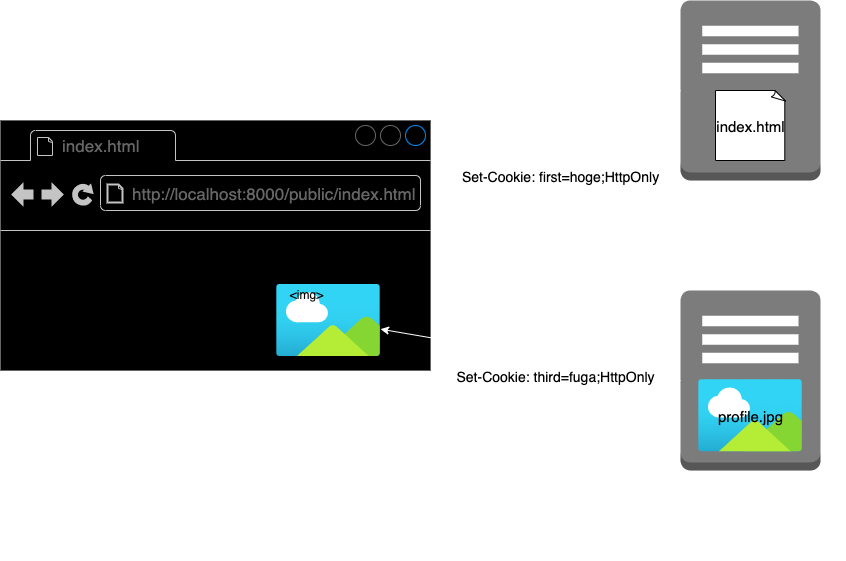
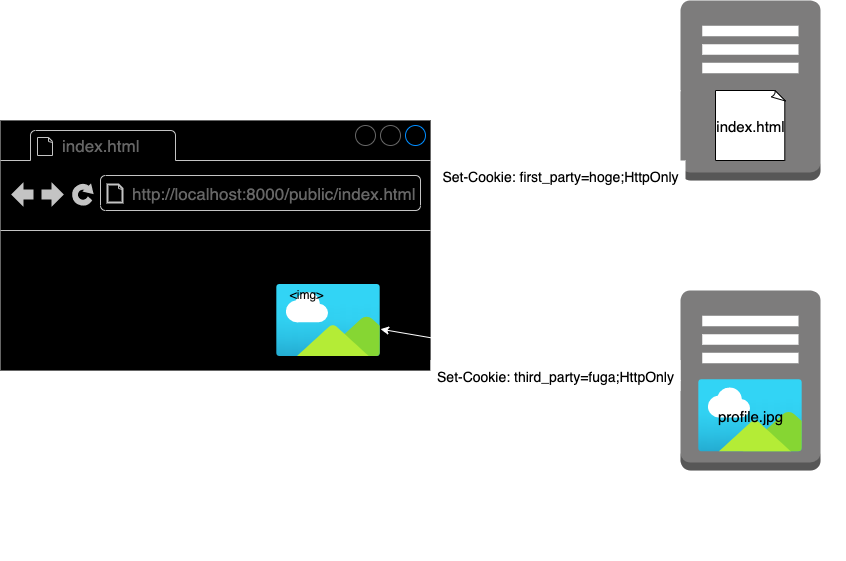
feat: 課題2の実装が完了したっぽい..
#18

Changed region(s): [[0.5225, 0.2727, 0.8298, 0.3333], [0.5225, 0.6667, 0.7991, 0.697]]

diff --git a/web_basic/understand_third_party_cookie/task_2/first_party/public/index.html b/web_basic/understand_third_party_cookie/task_2/first_party/public/index.html
@@ -5,25 +5,15 @@
     <title>サンプル</title>
   </head>
   <body>
-    <script src="https://ajax.googleapis.com/ajax/libs/jquery/3.1.1/jquery.min.js"></script>
+    <h1>ファーストパーティ</h1>
 
-    <a href="index2.html" target="_blank" rel="noreferrer"><img src="/Users/mikaurakawa/Desktop/praha_challenge/web_basic/understand_third_party_cookie/task_2/img/profile.jpg"></a>
+    <!-- 以下にngrokでホスティングした画像のURL(HTTPSの方)を記載する -->
+    <img src="https://ce441e9a59a7.ngrok.io/img/profile.jpg" />
 
     <script type="text/javascript">
-      $(function () {
-        $.ajax({
-          type: "GET",
-          url: "http://localhost:8000",
-        })
-          // Ajaxリクエストが成功した時発動
-          .done((data) => {
-            console.log(data)
-          })
-
-        // 受け取ったクッキーを取得、出力する（なにも表示されないはず）
-        allCookies = document.cookie
-        console.log(allCookies)
-      })
+      // 受け取ったクッキーを取得、出力する（なにも表示されないはず）
+      allCookies = document.cookie
+      console.log(allCookies)
     </script>
   </body>
 </html>

diff --git a/web_basic/understand_third_party_cookie/task_2/third_party/app.js b/web_basic/understand_third_party_cookie/task_2/third_party/app.js
@@ -5,14 +5,20 @@ const PORT = 3000
 
 app.use(cookieParser())
 
-app.use("/public", express.static(__dirname + "/public"))
+const staticOptions = {
+  setHeaders: function (res, path, stat) {
+    res.cookie("third_party", "fuga", {
+      // httpOnly属性のみだと、Chromeブラウザのデフォルト設定がSameSiteがLaxであるため、ブロックされる
+      httpOnly: true,
+      // クロスサイト間でのクッキーのやりとりを可能にするため、以下の属性を付与する
+      sameSite: "none",
+      secure: true,
+    })
+  },
+}
 
-app.get("/", (req, res) => {
-  res.cookie("third_party", "fuga", {
-    httpOnly: true,
-  })
-})
+app.use("/img", express.static(__dirname + "/img", staticOptions))
 
-app.listen(PORT, ()=> {
+app.listen(PORT, () => {
   console.log(`listening on port ${PORT}`)
 })

diff --git a/web_basic/understand_third_party_cookie/task_2/first_party/app.js b/web_basic/understand_third_party_cookie/task_2/first_party/app.js
@@ -5,14 +5,16 @@ const PORT = 8000
 
 app.use(cookieParser())
 
-app.use("/public", express.static(__dirname + "/public"))
+const staticOptions = {
+  setHeaders: function (res, path, stat) {
+    res.cookie("first_party", "hoge", {
+      httpOnly: true,
+    })
+  },
+}
 
-app.get("/", (req, res) => {
-  res.cookie("first_party", "hoge", {
-    httpOnly: true,
-  })
-})
+app.use("/public", express.static(__dirname + "/public", staticOptions))
 
-app.listen(PORT, ()=> {
+app.listen(PORT, () => {
   console.log(`listening on port ${PORT}`)
 })
